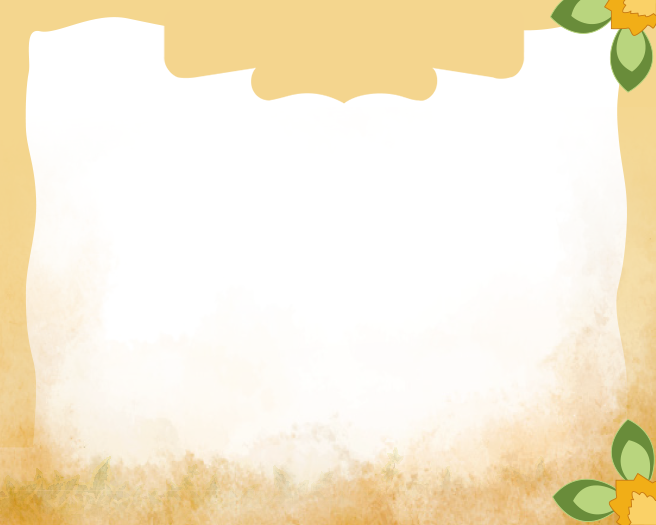
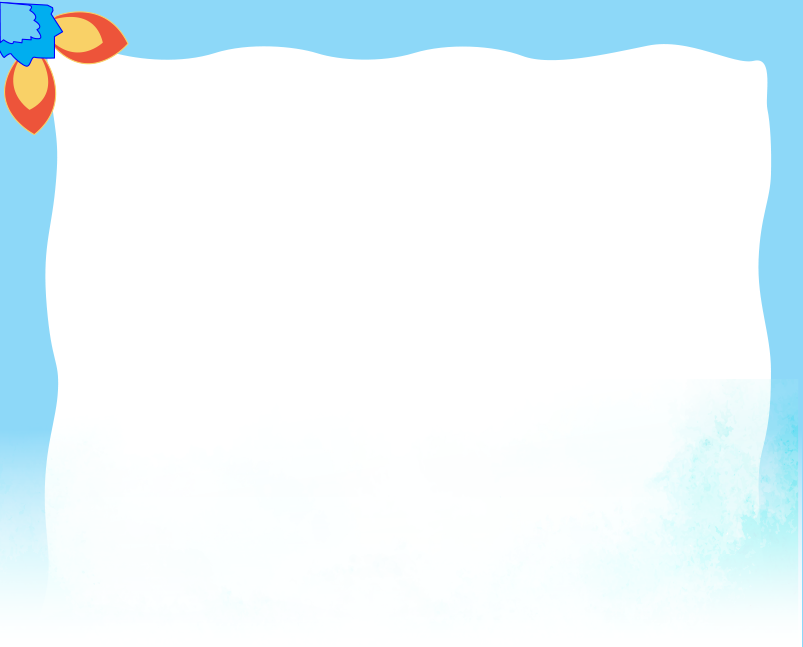
Created the base page for words section

diff --git a/livre/letters-section/styles.css b/livre/letters-section/styles.css
@@ -1,65 +1,81 @@
 .board {
-  background: url("../../../imgs/board-layout.png") no-repeat center center;
+  background: url("../../imgs/layout.png") no-repeat center center;
   background-size: cover;
   background-color: white;
   width: 100%;
   height: 50rem;
-  padding: 4rem 6rem;
+  padding: 3rem 5rem;
   margin: 1.5rem auto;
-  border: 0.625rem solid #df5b2c;
+  border: 0.625rem solid #00ccff;
   border-radius: 2rem;
-  box-shadow: #f172ac 0px 19px 38px, rgba(0, 0, 0, 0.22) 0px 15px 12px;
+  box-shadow: #72d8f1 0px 19px 38px, rgba(0, 0, 0, 0.22) 0px 15px 12px;
   display: flex;
   align-items: center;
   justify-content: space-between;
+  flex-direction: column;
+  gap: 1rem;
 }
 
 @media (max-width: 991px) {
-    .header .mega-menu .image {
-        display: none;
-    }
-    .header .mega-menu .links {
-        flex: 1;
-    }
-    .header .mega-menu .links {
-        min-width: 220px;
-    }
+  .board {
+    height: 70%;
+    width: 95%;
+  }
+  .board .word-box.letter img {
+    width: 30rem;
+  }
 }
 
-.board .letter-box {
-  width: 33.33333%;
-  height: 50%;
+.title-section {
+  position: relative;
+  display: flex;
+  align-self: self-start;
+}
+
+.title-section img {
+  position: absolute;
+  top: 0;
+  left: -2rem;
+  width: 4rem;
+
+  z-index: 10;
+}
+
+.board .section .title {
+  background-color: #f9d167;
+  font-size: 2rem;
+  padding: 0.5rem 2rem;
+  border-radius: 2rem;
+  -webkit-border-radius: 2rem;
+  -moz-border-radius: 2rem;
+  -ms-border-radius: 2rem;
+  -o-border-radius: 2rem;
+}
+
+.board .section {
+  width: 100%;
+  height: 45%;
   display: flex;
   align-items: center;
-  justify-content: center;
-  transition: all 0.7s ease-in-out;
-  -webkit-transition: all 0.7s ease-in-out;
-  -moz-transition: all 0.7s ease-in-out;
-  -ms-transition: all 0.7s ease-in-out;
-  -o-transition: all 0.7s ease-in-out;
-}
-
-.board .letter-box img {
-  /* width: 1em; */
-  height: 220px;
+  justify-content: space-between;
+  flex-direction: column;
 }
 
 .board .words-box {
-  flex: 1;
   width: 100%;
-  height: 100%;
   display: flex;
   align-items: center;
-  justify-content: end;
+  justify-content: space-between;
+  flex-direction: row;
 }
 
-.board .words-box .word-box {
-  width: 40%;
-  height: 300px;
+.word-box {
+  width: 30%;
+  height: 100%;
   display: flex;
   flex-direction: column;
   align-items: center;
-  justify-content: flex-end;
+  justify-content: center;
   transition: all 0.5s ease-in-out;
   -webkit-transition: all 0.5s ease-in-out;
   -moz-transition: all 0.5s ease-in-out;
@@ -67,41 +83,21 @@
   -o-transition: all 0.5s ease-in-out;
 }
 
-.board .words-box .word-box:hover,
-.board .letter-box:hover {
-  transform: scale(1.1);
-  -webkit-transform: scale(1.1);
-  -moz-transform: scale(1.1);
-  -ms-transform: scale(1.1);
-  -o-transform: scale(1.1);
+.word-box img {
+  width: 15rem;
+  height: auto;
 }
 
-.board .words-box .word-box img {
-  width: 10rem;
+/* .word-box.letter img {
+  width: 20rem;
+} */
+
+.line-img {
+  width: 10%;
+  height: 15rem;
 }
 
-.board .words-box .word-box p {
-  font-size: 2.5rem;
-  align-self: end;
-  margin: 0.5rem 0;
-}
-
-.board .words-box .line-img {
-  width: 5%;
-  height: 40%;
-}
-.board .words-box .line-img img {
+.line-img img {
   width: auto;
   height: 100%;
-}
-
-@media (max-width: 991px) {
-  .page .board {
-    width: 95%;
-  }
-}
-@media (max-width: 767px) {
-  .page .board {
-    width: 95%;
-  }
 }

diff --git a/livre/letters-section/page7/index.html b/livre/letters-section/page7/index.html
@@ -1,0 +1,98 @@
+<!DOCTYPE html>
+<html lang="fr">
+  <head>
+    <meta charset="UTF-8" />
+    <title>Mes lettres de l'alphabet</title>
+    <link rel="stylesheet" href="../styles.css" />
+    <link rel="stylesheet" href="../../../master.css" />
+  </head>
+  <body>
+    <div class="page">
+      <section class="board">
+        <div class="section">
+          <div class="title-section">
+            <img src="../../../imgs/speaker.png" alt="icon" />
+            <h2 class="title">J’observe et dis les mots:</h2>
+          </div>
+          <div class="words-box">
+            <div class="word-box">
+              <img
+                src="imgs/1-1.png"
+                data-type="tts"
+                data-text="arbre"
+                alt="Tree" />
+            </div>
+            <div class="line-img">
+              <img src="../../../imgs/yellow-line.png" alt="Yellow line" />
+            </div>
+            <div class="word-box">
+              <img
+                src="imgs/1-2.png"
+                data-type="tts"
+                data-text="avion"
+                alt="Avion" />
+            </div>
+            <div class="line-img">
+              <img src="../../../imgs/yellow-line.png" alt="Yellow line" />
+            </div>
+            <div class="word-box">
+              <img
+                src="imgs/1-3.png"
+                data-type="tts"
+                data-text="avion"
+                alt="Avion" />
+            </div>
+          </div>
+        </div>
+        <div class="section">
+          <div class="title-section">
+            <img src="../../../imgs/speaker.png" alt="icon" />
+            <h2 class="title">
+              J’écoute le son, je trace et j’écris la lettre :
+            </h2>
+          </div>
+
+          <div class="words-box">
+            <div class="word-box letter">
+              <img
+                src="imgs/2-1.png"
+                data-type="tts"
+                data-text="arbre"
+                alt="Tree" />
+            </div>
+            <div class="line-img">
+              <img src="../../../imgs/yellow-line.png" alt="Yellow line" />
+            </div>
+            <div class="word-box">
+              <img
+                src="imgs/2-2.png"
+                data-type="tts"
+                data-text="avion"
+                alt="Avion" />
+            </div>
+          </div>
+        </div>
+      </section>
+
+      <footer>
+        <div class="navigation">
+          <a href="../../sections/index.html" class="button">
+            <img src="../../../imgs/previous.png" alt="Previous" />
+          </a>
+
+          <a href="../../../index.html" class="home-btn">
+            <img src="../../../imgs/home.png" width="130" alt="Home" />
+          </a>
+
+          <a href="../letters-with-words/page11/index.html" class="button">
+            <div class="openai-logo">
+              <img src="../../../imgs/next.png" alt="next" />
+            </div>
+          </a>
+        </div>
+      </footer>
+    </div>
+
+    <script src="../../../master.js"></script>
+  </body>
+</html>

diff --git a/livre/sections/index.html b/livre/sections/index.html
@@ -18,7 +18,7 @@
         <h1 class="title">Livre de l'élève</h1>
         <div class="book-sections">
           <a
-            href="../letters-section/index.html"
+            href="../letters-section/page7/index.html"
             class="book-section"
             style="color: goldenrod"
             >Les lettres de l'alphabet et les mots</a
